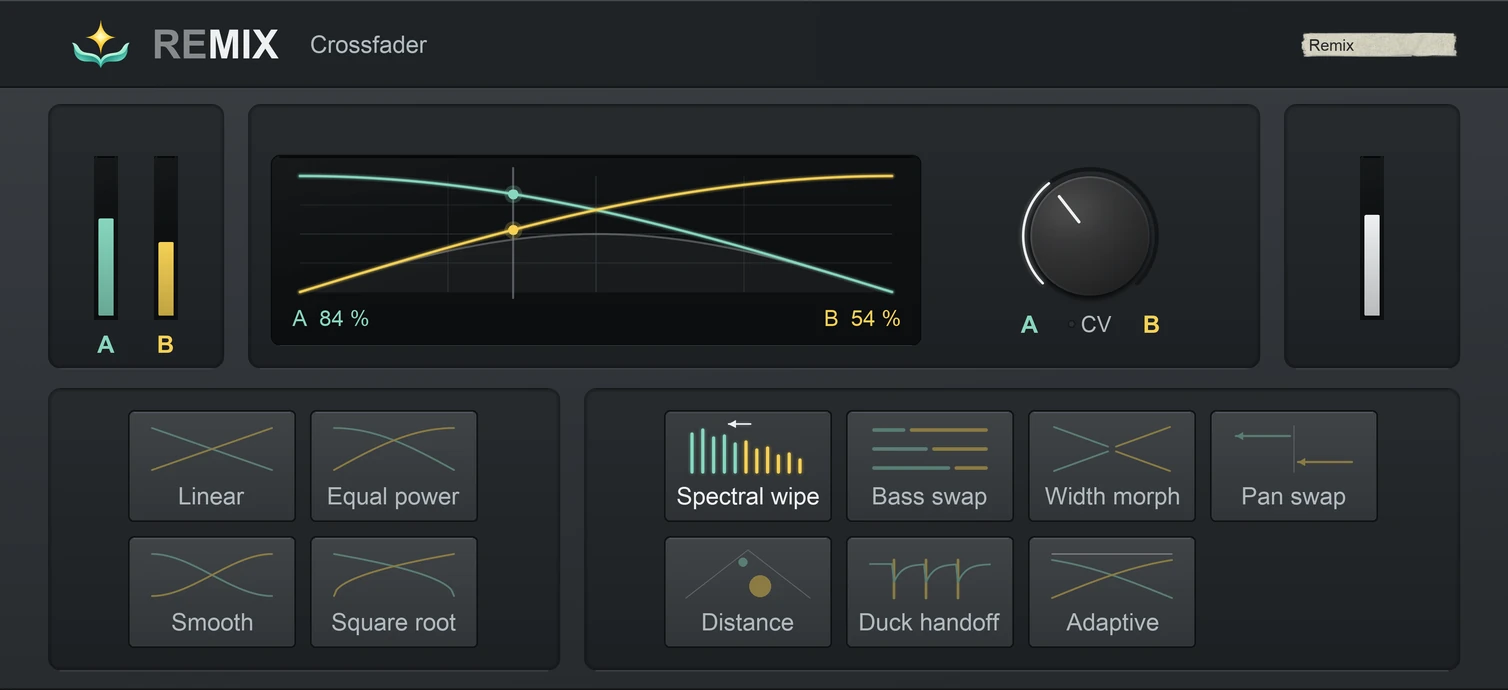
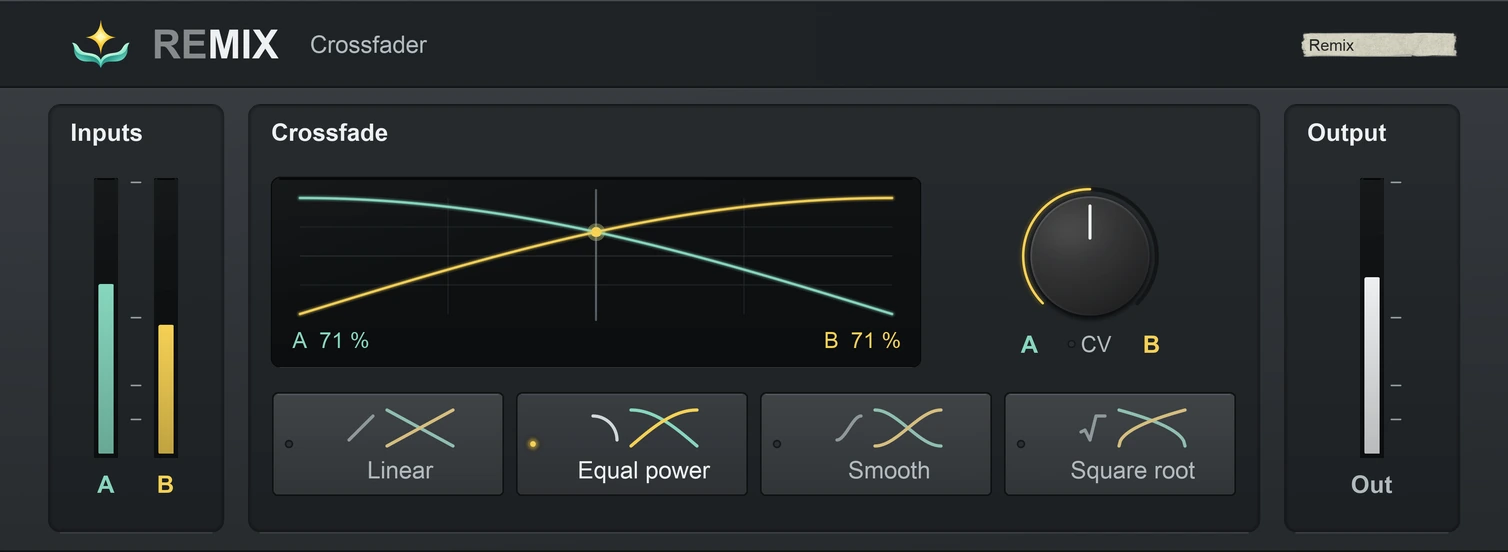
Remix 1.0.0d1: four curves, free, 4U panels
Remove the seven transitions from the copy, say Remix is free, and show
the 4U 1.0.0d1 front and rear from reason-rack-extensions 3854d5a. Still
coming soon: it is not in the Shop yet.

Claude-Session: https://claude.ai/code/session_01NMJbGs9P92cwQbNJdeFUeV

diff --git a/product/remix/index.html b/product/remix/index.html
@@ -5,10 +5,10 @@
   <meta charset="UTF-8">
   <meta name="viewport" content="width=device-width, initial-scale=1.0">
   <title>Remix — Crossfader Rack Extension | Protocodus</title>
-  <meta name="description" content="Remix Crossfader is a Rack Extension for Reason, in development: blend two sources by hand or by CV through four curves and seven transitions that hold the level steady.">
+  <meta name="description" content="Remix Crossfader is a free Rack Extension for Reason, coming soon: fade between two sources by hand or by CV with four proven crossfade curves and a live scope.">
   <meta name="theme-color" content="#0d0e12">
   <meta property="og:title" content="Remix — Crossfader Rack Extension | Protocodus">
-  <meta property="og:description" content="Remix Crossfader is a Rack Extension for Reason, in development: blend two sources by hand or by CV through four curves and seven transitions that hold the level steady.">
+  <meta property="og:description" content="Remix Crossfader is a free Rack Extension for Reason, coming soon: fade between two sources by hand or by CV with four proven crossfade curves and a live scope.">
   <meta property="og:type" content="website">
   <meta property="og:url" content="https://protocodus.cz/product/remix/">
   <meta property="og:image" content="https://protocodus.cz/product/remix/Remix_Thumbnail_800.png?v=883450bcbab1">
@@ -24,7 +24,7 @@
 
   <meta name="twitter:card" content="summary_large_image">
   <meta name="twitter:title" content="Remix — Crossfader Rack Extension | Protocodus">
-  <meta name="twitter:description" content="Remix Crossfader is a Rack Extension for Reason, in development: blend two sources by hand or by CV through four curves and seven transitions that hold the level steady.">
+  <meta name="twitter:description" content="Remix Crossfader is a free Rack Extension for Reason, coming soon: fade between two sources by hand or by CV with four proven crossfade curves and a live scope.">
   <meta name="twitter:image" content="https://protocodus.cz/product/remix/Remix_Thumbnail_800.png?v=883450bcbab1">
   <meta name="twitter:image:alt" content="Remix cover with teal and gold crossfade curves crossing above a centred fader.">
   <script type="application/ld+json">
@@ -104,10 +104,10 @@
           <div class="instrument-intro">
             <span class="product-kicker">Crossfader utility · Reason Rack Extension · In development</span>
             <h1 class="hero-title">Remix</h1>
-            <p class="hero-sub">Crossfade two audio sources by hand or CV. Choose from four crossfade curves and seven effect transitions.</p>
+            <p class="hero-sub">Fade between two audio sources by hand or CV, from untouched A to untouched B, with one of four proven crossfade curves. Free.</p>
           </div>
           <div class="instrument-actions">
-            <ul class="instrument-facts" aria-label="Highlights"><li>Four curves</li><li>Seven transitions</li><li>CV control</li></ul>
+            <ul class="instrument-facts" aria-label="Highlights"><li>Four curves</li><li>Live scope</li><li>CV control</li><li>Free</li></ul>
             <div class="hero-actions">
               <span class="product-status">Coming soon!</span>
               <a href="#details" class="detail-link" data-analytics-cta="hero_details" data-analytics-action="view_details">Explore Remix <span aria-hidden="true">↓</span></a>
@@ -116,8 +116,8 @@
           </div>
         </div>
         <figure class="shot hero-shot">
-          <a class="screenshot-link" href="remix-rack-front.webp?v=20261031-release" aria-label="View the Remix Rack Extension front panel at full size" data-analytics-cta="front_panel" data-analytics-action="view_screenshot">
-            <img src="remix-rack-front.webp?v=20261031-release" width="1508" height="690" fetchpriority="high" decoding="async" alt="Remix Rack Extension front panel with curve keys, a live crossfade scope and level meters">
+          <a class="screenshot-link" href="remix-rack-front.webp?v=20261106-1.0.0" aria-label="View the Remix Rack Extension front panel at full size" data-analytics-cta="front_panel" data-analytics-action="view_screenshot">
+            <img src="remix-rack-front.webp?v=20261106-1.0.0" width="1508" height="552" fetchpriority="high" decoding="async" alt="Remix Rack Extension front panel with four curve keys, a live crossfade scope, the Mix knob and level meters">
             <span class="shot-caption">Front panel · development build <span>View full size <span aria-hidden="true">↗</span></span></span>
           </a>
         </figure>
@@ -128,14 +128,14 @@
       <div class="wrap">
         <div class="head">
           <span class="tag">The crossfader</span>
-          <h2 class="title">More than a fade between two sources.</h2>
-          <p class="lede">Linear, Equal Power, Smooth and Square Root set two gains. The transitions go further, and each is deepest at the middle of the fade, so a fade resting at either end plays plain A or plain B.</p>
+          <h2 class="title">Four fades that a mix needs.</h2>
+          <p class="lede">Linear, Equal Power, Smooth and Square Root each set two gains. A fade resting at either end plays plain A or plain B.</p>
         </div>
         <ul class="features">
-          <li><h3>Seven transitions</h3><p>Spectral Wipe, Bass Swap, Width Morph, Pan Swap, Distance, Duck Handoff and Adaptive. Bass Swap crosses the highs first and the kick and bass last; Duck Handoff dips each source under the other’s hits.</p></li>
-          <li><h3>The level holds</h3><p>A level guard keeps the output close to an equal-power fade all the way across: in the tests every transition stays within 1.5 dB of it.</p></li>
+          <li><h3>Four curves</h3><p>Equal Power, the default, holds the level between two different tracks with no dip in the middle. Linear suits two copies of the same signal; Smooth eases in and out at both ends; Square Root brings the incoming source in early.</p></li>
+          <li><h3>CV takes over</h3><p>Patch CV into the back and it takes over from the Mix knob; a rear Amount control scales it, and a lamp shows when CV has control.</p></li>
           <li><h3>Stereo or mono</h3><p>Each input pair also accepts a mono source, and left and right stay separate throughout the crossfade.</p></li>
-          <li><h3>Smooth under automation</h3><p>Slew of up to 50 ms smooths changes in CV, position or curve. Automate MIX, Curve, Slew and CV Amount to build transitions into an arrangement.</p></li>
+          <li><h3>Smooth under automation</h3><p>Slew of up to 50 ms smooths changes in CV, position or curve. Automate Mix, Curve, Slew and CV Amount to build transitions into an arrangement.</p></li>
         </ul>
       </div>
     </section>
@@ -145,12 +145,12 @@
         <div class="edition-copy">
           <span class="tag">In the rack</span>
           <h2 class="title">See each curve before you use it.</h2>
-          <p class="lede">Each key on the five-unit panel draws its curve or effect, and its tooltip says what it does. A live scope shows the actual A and B gains at the current position, beside input and output meters.</p>
+          <p class="lede">Each key on the four-unit panel draws its curve, and its tooltip says what it is for. A live scope draws the selected curve and marks the actual A and B gains at the current position, beside input and output meters.</p>
           <p class="lede">A CV indicator shows when external control takes over, and a rear-panel amount control attenuates the incoming CV. Remix sits with the Utilities and has no bypass, because a crossfader is always mixing.</p>
         </div>
         <figure class="shot">
-          <a class="screenshot-link" href="remix-rack-rear.webp?v=20261031-release" aria-label="View the Remix Rack Extension rear panel at full size" data-analytics-cta="rear_panel" data-analytics-action="view_screenshot">
-            <img src="remix-rack-rear.webp?v=20261031-release" width="1508" height="690" loading="lazy" decoding="async" alt="Remix Rack Extension rear panel and connections">
+          <a class="screenshot-link" href="remix-rack-rear.webp?v=20261106-1.0.0" aria-label="View the Remix Rack Extension rear panel at full size" data-analytics-cta="rear_panel" data-analytics-action="view_screenshot">
+            <img src="remix-rack-rear.webp?v=20261106-1.0.0" width="1508" height="552" loading="lazy" decoding="async" alt="Remix Rack Extension rear panel and connections">
             <span class="shot-caption">Rear panel &amp; connections <span>View full size <span aria-hidden="true">↗</span></span></span>
           </a>
         </figure>
@@ -162,15 +162,15 @@
         <div>
           <span class="tag">Reason Rack Extension</span>
           <h2 class="title">Connect A and B.</h2>
-          <p class="lede">Send two sources to A and B, turn MIX, then try the transitions. Remix has no presets; its four controls are saved in your song.</p>
+          <p class="lede">Send two sources to A and B, turn Mix, then try the four curves. Remix has no presets; its four controls are saved in your song.</p>
         </div>
         <aside class="info-card compatibility" aria-label="Remix requirements and availability">
           <h3>Requirements &amp; availability</h3>
           <dl class="platforms">
-            <div><dt>Format</dt><dd>Rack Extension for Reason · 5U</dd></div>
+            <div><dt>Format</dt><dd>Rack Extension for Reason · 4U</dd></div>
             <div><dt>Audio</dt><dd>Two stereo or mono inputs, stereo output</dd></div>
-            <div><dt>Control</dt><dd>MIX knob, CV, automation</dd></div>
-            <div><dt>Availability</dt><dd>Coming soon!</dd></div>
+            <div><dt>Control</dt><dd>Mix knob, CV, automation</dd></div>
+            <div><dt>Availability</dt><dd>Free · coming soon!</dd></div>
           </dl>
         </aside>
       </div>
@@ -181,7 +181,7 @@
         <div class="contact-box">
           <span class="tag">Support</span>
           <h2 class="title">Want to know more about Remix?</h2>
-          <p class="lede">Ask about availability, Reason compatibility, transitions, CV or the controls.</p>
+          <p class="lede">Ask about availability, Reason compatibility, the curves, CV or the controls.</p>
           <a href="mailto:protocodus@proton.me?subject=Remix" class="mail" data-analytics-cta="support_email" data-analytics-action="contact_support">protocodus@proton.me</a>
         </div>
       </div>

diff --git a/index.html b/index.html
@@ -275,8 +275,8 @@
             <div class="product-body">
               <div class="product-tags"><span>Rack Extension</span><span class="product-type">Crossfader utility · In development</span></div>
               <h3><a href="/product/remix/" data-analytics-cta="product_remix_title" data-analytics-action="select_product">Remix</a></h3>
-              <p>Crossfade two audio sources with four curves and seven effect transitions. Control the mix by hand or CV.</p>
-              <p class="product-facts">Four curves · Seven transitions · CV control<br>Rack edition in development</p>
+              <p>Fade between two audio sources with four proven crossfade curves and a live scope. Control the mix by hand or CV. Free.</p>
+              <p class="product-facts">Four curves · Live scope · CV control<br>Free · Rack edition in development</p>
               <div class="product-actions"><a class="product-more" href="/product/remix/" data-analytics-cta="product_remix_details" data-analytics-action="select_product">Explore Remix <span aria-hidden="true">→</span></a><span class="product-status">Coming soon!</span></div>
             </div>
           </article>
